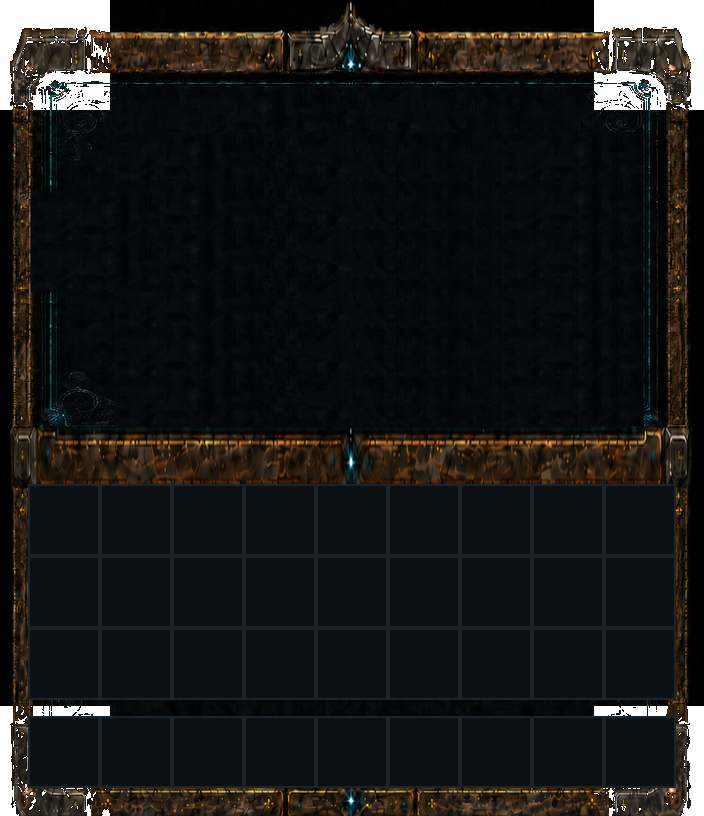
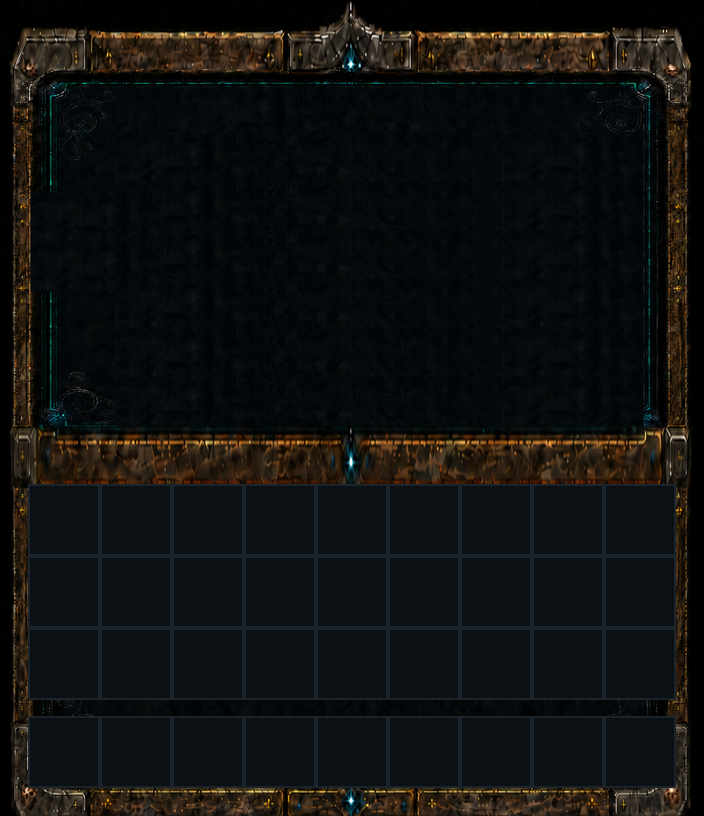
Revert "실증 테스트: 모서리 검은 영역을 실제 투명(alpha=0)으로 뚫어본다"
This reverts commit ee42898d54dd692ae8f70d407d651115f221c7f2.

diff --git a/gui-forge/build_skilltree_bg.py b/gui-forge/build_skilltree_bg.py
@@ -135,32 +135,6 @@ def fill_black_corners(art):
     return art
 
 
-def make_corners_transparent(im):
-    """실증 테스트: 둥근 프레임 바깥 검은 모서리를 진짜 투명(alpha=0)으로 뚫는다.
-
-    ★이전 시도(엣지 클램프/미러링/nearest-fill)는 전부 '채워서 안 보이게' 였다.
-      이번엔 사용자가 "이 자리는 지워도 바닐라 회색 안 샌다"고 반박해서, 주장 대신
-      실제로 뚫어 배포해 눈으로 확인한다. 좌표는 원본(1114x1412)의 작은 모서리 크롭
-      (95x95, fill_black_corners와 동일 범위)만 대상 — 남색 패널은 절대 안 건드린다.
-    """
-    W_, H_ = im.size
-    BOX = 110                                      # 조립된 최종 이미지 좌표 기준
-    px = im.load()
-
-    def lum(c):
-        return (c[0] * 2 + c[1] * 5 + c[2]) // 8
-
-    for bx, by, dx, dy in ((0, 0, 1, 1), (W_ - BOX, 0, -1, 1),
-                          (0, H_ - BOX, 1, -1), (W_ - BOX, H_ - BOX, -1, -1)):
-        for yy in range(BOX):
-            y = by + yy if dy > 0 else by + BOX - 1 - yy
-            for xx in range(BOX):
-                x = bx + xx if dx > 0 else bx + BOX - 1 - xx
-                if lum(px[x, y][:3]) < 15:
-                    px[x, y] = (0, 0, 0, 0)
-    return im
-
-
 def slot_cell(px, x0, y0):
     """인벤 칸 음각. 4면 동일 톤 — 비대칭 베벨은 착시로 여백처럼 보였다(위 CELL_GRID 참조)."""
     n = CELLG * SCALE
@@ -185,7 +159,6 @@ def main():
 
     erase_nodes(art)
     im = piecewise_scale(art)
-    make_corners_transparent(im)
 
     px = im.load()
     for gy in INV_ROWS_Y + [HOTBAR_Y]:
